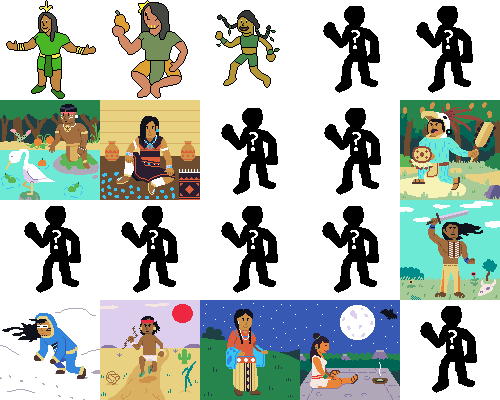
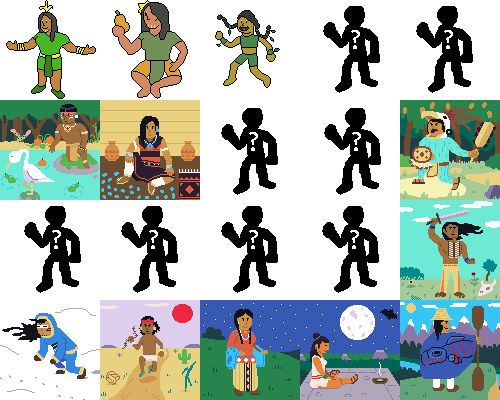
Fisherman graphic

Changed region(s): [[0.78, 0.75, 1.0, 1.0]]

diff --git a/src/game.ts b/src/game.ts
@@ -57,7 +57,7 @@ export default class Game {
       time: Time.DAY,
       cave: false
     };
-    this.party.populate('eagle knight', 'runner', 'bead queen', 'wanderer');
+    this.party.populate('runner', 'bead queen', 'wanderer', 'fisherman');
     this.chain.futureEvent(new TimeEvent(this), DAY_NIGHT_CYCLE);
   }
 
